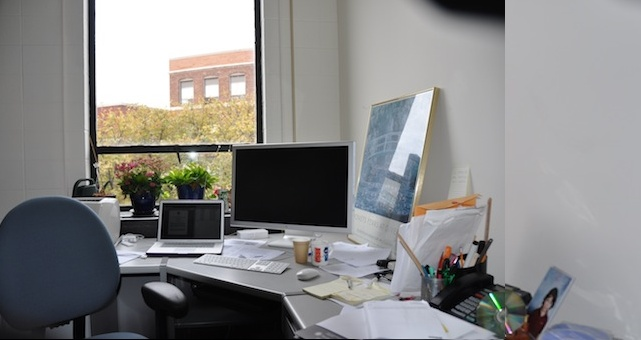
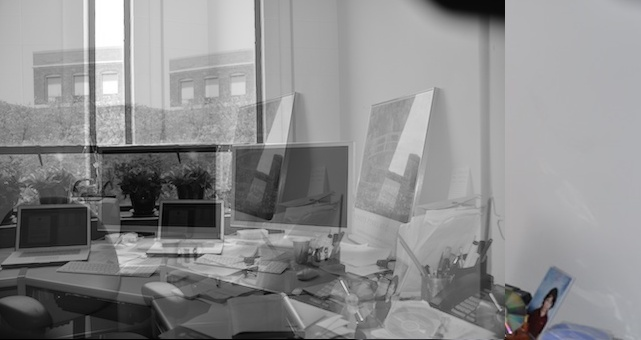
averaging but it doesn't work

diff --git a/mosaic.py b/mosaic.py
@@ -428,7 +428,23 @@ def warpimage(img1, img2, H, crop):
     # this will place the first image into the background before adding in the second image
     output_img = cv2.warpPerspective(img1, H_translation.dot(H), (x_max-x_min, y_max-y_min))
 
-    output_img[translation_dist[1]:rows1+translation_dist[1], translation_dist[0]:cols1+translation_dist[0]] = img2
+    gray1= cv2.cvtColor(output_img, cv2.COLOR_BGR2GRAY)
+    gray1 = np.float32(gray1)
+
+    gray2 = cv2.cvtColor(img2, cv2.COLOR_BGR2GRAY)
+    gray2 = np.float32(gray2)
+
+    for i in range(gray1[translation_dist[1], rows1 + translation_dist[1]]):
+        for j in range(gray1[translation_dist[0], rows1 + translation_dist[1]]):
+            if gray1[i, j] == (255, 255, 255):
+                dst = gray2[i, j]
+            else:
+                #alpha = 1.0/(i + 1)
+                #beta = 1.0 - alpha
+                dst[i, j] = cv2.addWeighted(gray1[i, j], 0.5, gray2[i, j], 0.5, 0.0)
+
+
+    # output_img[translation_dist[1] : rows1 + translation_dist[1], translation_dist[0] : cols1 + translation_dist[0]] = average
     
     # Cropping an image 
 
@@ -442,7 +458,7 @@ def warpimage(img1, img2, H, crop):
         # cropping for the hallway
         cropped_image = output_img[22:362, 7:655, 0:3]
 
-    return cropped_image
+    return dst
 
 
 def main(): 
@@ -547,8 +563,8 @@ def main():
 
     hallway_crop = 2
     hallway = warpimage(img1, img2, homography1, hallway_crop)
-    cv2.imwrite("hallway_2warpedimg.jpg", hallway)
-
+    cv2.imwrite("hallway_blendingtest.jpg", hallway)
+    # cv2.imwrite("hallway_2warpedimg.jpg", hallway)
 
     ##################################################
     ################ 3 Hallway Images ################
